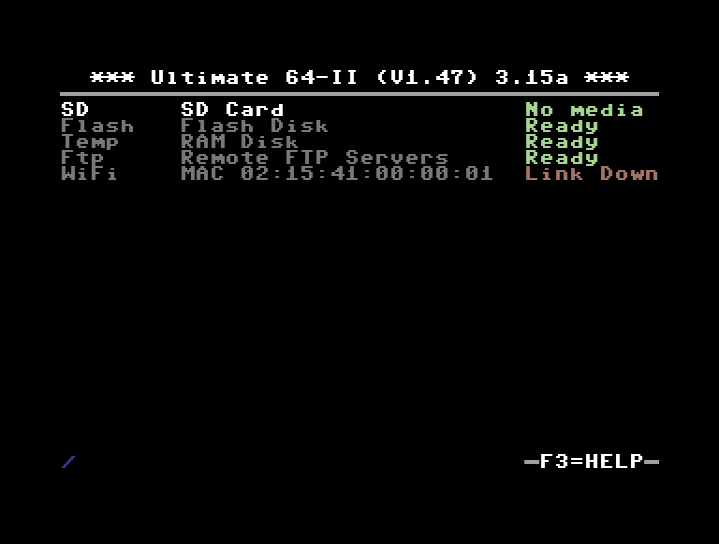
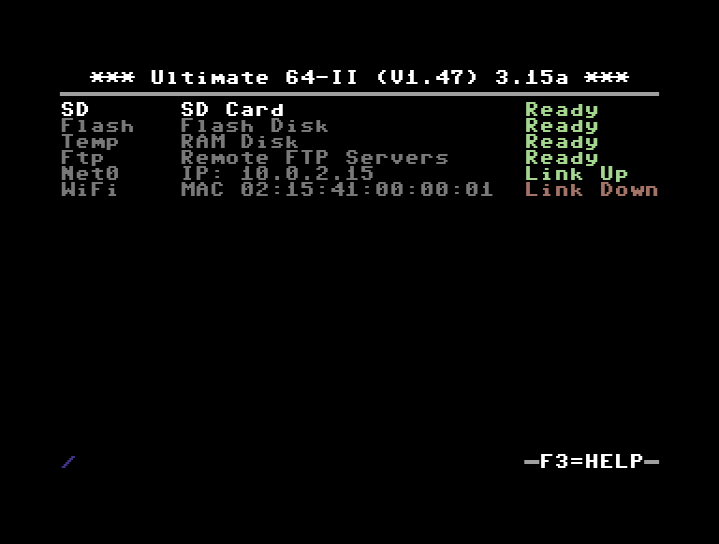
add ultimate64/c64u

diff --git a/README.md b/README.md
@@ -61,9 +61,7 @@ Power-on screens and desktops from the emulator itself (`mimic-headless --snapsh
 <td align="center" valign="top" width="33%"><img src="docs/screenshots/kc85-basic.png" alt="Robotron KC85/4: HC-BASIC, the foreground and background colours"><br><b>Robotron KC85/4</b><br>HC-BASIC, the foreground and background colours</td>
 </tr>
 <tr>
-<td align="center" valign="top" width="33%"><img src="docs/screenshots/ultimate64-updater.png" alt="Ultimate 64 Elite II: the firmware's own updater on the emulated board"><br><b>Ultimate 64 Elite II</b><br>the real updater (firmware 3.15a)</td>
-<td align="center" valign="top" width="33%"><img src="docs/screenshots/ultimate64-menu.png" alt="Ultimate 64 Elite II: the firmware's menu"><br><b>Ultimate 64 Elite II</b><br>the firmware's menu</td>
-<td align="center" valign="top" width="33%"><img src="docs/screenshots/c64u-menu.png" alt="Commodore 64 Ultimate: the firmware's menu"><br><b>Commodore 64 Ultimate</b><br>the firmware's menu (1.2.1)</td>
+<td align="center" valign="top" width="33%"><img src="docs/screenshots/ultimate64-menu.png" alt="Ultimate 64 Elite II: the menu of the board's own firmware, with SD card and network"><br><b>Ultimate 64 Elite II</b><br>the real firmware's menu (3.15a)</td>
 </tr>
 </table>
 
